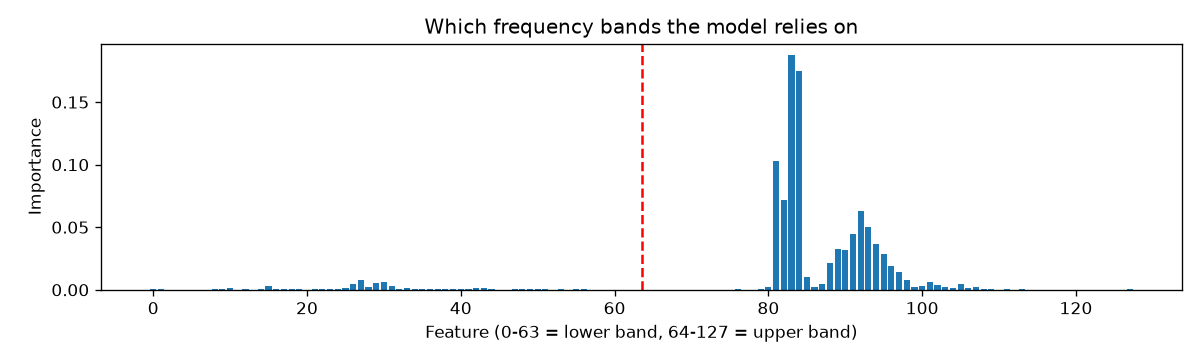
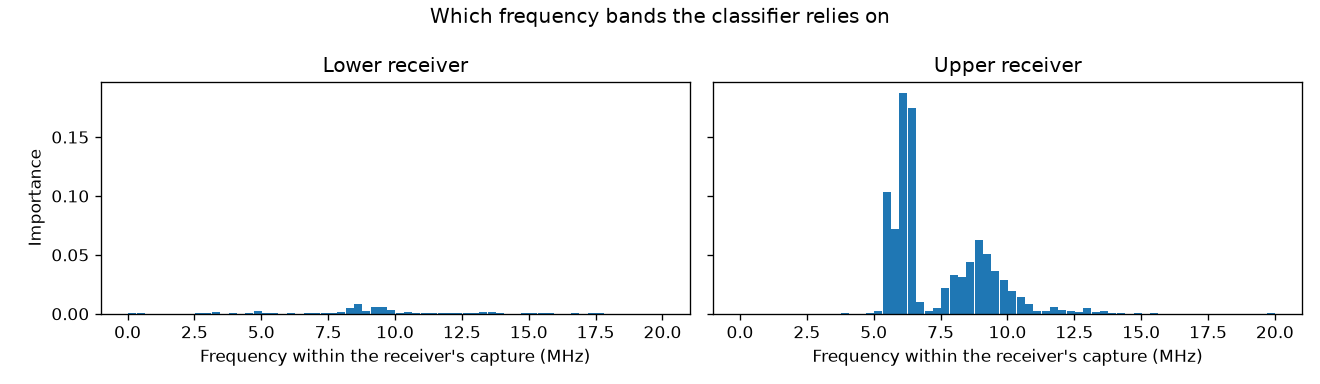
Add baseline, noise robustness test and frequency-labelled feature importance

Changed region(s): [[0.0, 0.0306, 0.9867, 0.9472]]

diff --git a/06_noise_robustness.py b/06_noise_robustness.py
@@ -1,0 +1,62 @@
+"""Step 6: where does the detector break? Accuracy on unseen recordings as noise is added.
+
+For each fold the Random Forest is trained on clean features. The test recordings
+are then reloaded, white Gaussian noise is added to every window, features are
+recomputed, and accuracy is measured. The noise level is set relative to each
+window's own power, so 0 dB means the added noise is as strong as the window itself.
+The recordings already contain some noise, so this is not the true SNR of the drone signal.
+"""
+import matplotlib.pyplot as plt
+import numpy as np
+from sklearn.ensemble import RandomForestClassifier
+from sklearn.metrics import accuracy_score
+from sklearn.model_selection import StratifiedGroupKFold
+from common import CHUNK, FIG_DIR, list_segments, load_signal
+from features_lib import band_features
+
+LEVELS_DB = [30, 20, 10, 5, 0, -5, -10]   # window power relative to added noise, in dB
+rng = np.random.default_rng(0)
+
+
+def add_noise(x, level_db):
+    """Add white Gaussian noise so that window power / noise power = level_db."""
+    noise_power = np.mean(x ** 2) / 10 ** (level_db / 10)
+    return x + rng.normal(0.0, np.sqrt(noise_power), size=x.shape)
+
+
+data = np.load("features.npz")
+X, y, groups = data["X"], data["y"], data["groups"]
+files = {seg_id: (low, high) for low, high, _, seg_id in list_segments()}
+
+cv = StratifiedGroupKFold(n_splits=4, shuffle=True, random_state=42)
+acc = {level: [] for level in LEVELS_DB}
+for fold, (train_idx, test_idx) in enumerate(cv.split(X, y, groups), start=1):
+    model = RandomForestClassifier(n_estimators=200, random_state=42).fit(X[train_idx], y[train_idx])
+    for seg_id in sorted(set(groups[test_idx])):
+        x_low, x_high = (load_signal(f) for f in files[seg_id])
+        label = y[groups == seg_id][0]
+        n_chunks = min(len(x_low), len(x_high)) // CHUNK
+        for level in LEVELS_DB:
+            feats = []
+            for i in range(n_chunks):
+                a, b = i * CHUNK, (i + 1) * CHUNK
+                feats.append(np.concatenate([band_features(add_noise(x_low[a:b], level)),
+                                             band_features(add_noise(x_high[a:b], level))]))
+            pred = model.predict(np.array(feats))
+            acc[level].append(accuracy_score(np.full(len(pred), label), pred))
+    print(f"Fold {fold} done")
+
+means = [np.mean(acc[level]) for level in LEVELS_DB]
+for level, m in zip(LEVELS_DB, means):
+    print(f"{level:>4} dB: accuracy {m:.3f}")
+
+plt.figure(figsize=(6, 4))
+plt.plot(LEVELS_DB, means, marker="o")
+plt.gca().invert_xaxis()
+plt.axhline(0.5, color="grey", linestyle="--", label="Chance level")
+plt.xlabel("Window power relative to added noise (dB)")
+plt.ylabel("Accuracy on unseen recordings")
+plt.title("Detection accuracy as noise increases")
+plt.legend(); plt.grid(alpha=0.3); plt.tight_layout()
+plt.savefig(FIG_DIR / "07_noise_robustness.png", dpi=120)
+print("Saved figures/07_noise_robustness.png")

diff --git a/03_train.py b/03_train.py
@@ -5,6 +5,7 @@ from sklearn.ensemble import RandomForestClassifier
 from sklearn.metrics import ConfusionMatrixDisplay, accuracy_score, confusion_matrix
 from sklearn.model_selection import StratifiedGroupKFold
 from common import FIG_DIR
+from features_lib import band_centres_mhz
 
 data = np.load("features.npz")
 X, y, groups = data["X"], data["y"], data["groups"]
@@ -27,10 +28,16 @@ plt.title("Confusion matrix (all folds)")
 plt.tight_layout(); plt.savefig(FIG_DIR / "05_confusion_matrix.png", dpi=120)
 
 model = RandomForestClassifier(n_estimators=200, random_state=42).fit(X, y)
-plt.figure(figsize=(10, 3))
-plt.bar(range(X.shape[1]), model.feature_importances_)
-plt.axvline(63.5, color="red", linestyle="--")
-plt.xlabel("Feature (0-63 = lower band, 64-127 = upper band)")
-plt.ylabel("Importance"); plt.title("Which frequency bands the model relies on")
-plt.tight_layout(); plt.savefig(FIG_DIR / "06_feature_importance.png", dpi=120)
+imp = model.feature_importances_
+freqs = band_centres_mhz()
+width = freqs[1] - freqs[0]
+
+fig, axes = plt.subplots(1, 2, figsize=(11, 3.2), sharey=True)
+for ax, part, name in zip(axes, (imp[:64], imp[64:]), ("Lower receiver", "Upper receiver")):
+    ax.bar(freqs, part, width=width * 0.9)
+    ax.set_title(name)
+    ax.set_xlabel("Frequency within the receiver's capture (MHz)")
+axes[0].set_ylabel("Importance")
+fig.suptitle("Which frequency bands the classifier relies on")
+fig.tight_layout(); fig.savefig(FIG_DIR / "06_feature_importance.png", dpi=120)
 print("Saved confusion matrix and feature importance figures.")

diff --git a/05_baseline.py b/05_baseline.py
@@ -1,0 +1,26 @@
+"""Step 5: how hard is this task really? Compare the Random Forest with a one-feature baseline.
+
+The baseline uses a single number per window, the average log power across the
+upper receiver's 64 bands, and a logistic regression on top. If this alone gets
+close to 100%, the dataset separates easily and the README should say so.
+"""
+import numpy as np
+from sklearn.linear_model import LogisticRegression
+from sklearn.metrics import accuracy_score
+from sklearn.model_selection import StratifiedGroupKFold
+
+data = np.load("features.npz")
+X, y, groups = data["X"], data["y"], data["groups"]
+
+# One feature per window: mean log power of the upper receiver (features 64-127)
+upper_power = X[:, 64:].mean(axis=1, keepdims=True)
+
+cv = StratifiedGroupKFold(n_splits=4, shuffle=True, random_state=42)
+scores = []
+for fold, (train_idx, test_idx) in enumerate(cv.split(X, y, groups), start=1):
+    model = LogisticRegression().fit(upper_power[train_idx], y[train_idx])
+    acc = accuracy_score(y[test_idx], model.predict(upper_power[test_idx]))
+    scores.append(acc)
+    print(f"Fold {fold}: baseline accuracy {acc:.3f}")
+
+print(f"\nOne-feature baseline, mean accuracy on unseen recordings: {np.mean(scores):.3f}")

diff --git a/features_lib.py b/features_lib.py
@@ -1,0 +1,19 @@
+"""The feature function, kept in one place so training and the noise test use identical code."""
+import numpy as np
+from scipy import signal
+from common import FS
+
+N_BANDS = 64   # squeeze each 513-point spectrum into 64 frequency bands
+
+
+def band_features(x):
+    """Log power in N_BANDS frequency bands for one short window."""
+    f, pxx = signal.welch(x, fs=FS, nperseg=1024)
+    bands = [chunk.mean() for chunk in np.array_split(pxx, N_BANDS)]
+    return np.log10(np.array(bands) + 1e-12)
+
+
+def band_centres_mhz():
+    """Centre frequency of each band in MHz, in the same order as band_features."""
+    f = np.fft.rfftfreq(1024, d=1 / FS)
+    return np.array([chunk.mean() for chunk in np.array_split(f, N_BANDS)]) / 1e6

diff --git a/02_features.py b/02_features.py
@@ -1,17 +1,7 @@
 """Step 2: turn raw signals into a table of numbers a model can learn from."""
 import numpy as np
-from scipy import signal
-from common import CHUNK, FS, list_segments, load_signal
-
-N_BANDS = 64   # squeeze each 513-point spectrum into 64 frequency bands
-
-
-def band_features(x):
-    """Log power in N_BANDS frequency bands for one short window."""
-    f, pxx = signal.welch(x, fs=FS, nperseg=1024)
-    bands = [chunk.mean() for chunk in np.array_split(pxx, N_BANDS)]
-    return np.log10(np.array(bands) + 1e-12)
-
+from common import CHUNK, list_segments, load_signal
+from features_lib import band_features
 
 rows, labels, groups = [], [], []
 for low_file, high_file, label, seg_id in list_segments():

diff --git a/README.md b/README.md
@@ -1,38 +1,67 @@
 # Drone RF Detection with DSP and Machine Learning
 
-Detecting whether a drone is present from raw 2.4 GHz RF captures, using spectral features and a Random Forest classifier.
+Detecting whether a drone is present from raw 2.4 GHz RF captures, using Welch spectral features and a Random Forest, evaluated only on recordings the model has never seen.
+
+![Spectrogram of a drone recording](figures/02_spectrogram.png)
+
+## Results at a glance
+
+| Test | Result |
+|---|---|
+| Random Forest, 128 band-power features, grouped 4-fold cross-validation | 100% accuracy on unseen recordings |
+| One-feature baseline (average power of the upper receiver) | 50% (chance level) |
+| Noise robustness | At least 94.7% down to 10 dB, then falls to chance at 5 dB (see below) |
+| C++ moving-average FIR filter vs NumPy | Identical output on 5,000 real samples |
 
 ## Data
-[DroneRF dataset](https://doi.org/10.17632/f4c2b4n755.1) (Al-Sa'd et al., 2019), recorded with two NI USRP-2943R receivers that cover the lower and upper halves of the 2.4 GHz band. I used 8 recordings in total, 4 of background RF activity with no drone and 4 of a Parrot Bebop drone in one flight mode (BUI 10000). The raw data is not included here because of its size.
+[DroneRF dataset](https://doi.org/10.17632/f4c2b4n755.1) (Al-Sa'd et al., 2019), recorded with two NI USRP-2943R receivers that cover the lower and upper halves of the 2.4 GHz band. I used 8 recordings, 4 of background RF activity with no drone and 4 of a Parrot Bebop drone in one flight mode (BUI 10000). The raw data is not included because of its size.
 
-## What I did
+## Method
 1. **Explored the raw signals** in the time domain, as spectrograms and as Welch power spectral densities.
 2. **Built the complex analytic (I/Q) form** of the real-valued captures with a Hilbert transform.
 3. **Extracted features** by cutting each recording into 1,000 windows of 0.25 ms and computing log power in 64 frequency bands per receiver, giving 8,000 windows with 128 features each.
-4. **Trained a Random Forest** and evaluated it with grouped cross-validation, so windows from the same recording never appear in both the training and the test data.
-5. **Implemented a moving-average FIR filter in C++** and checked it against NumPy on 5,000 real samples.
+4. **Trained a Random Forest** and evaluated it with grouped cross-validation, so windows from the same recording never appear in both training and test data.
+5. **Compared against a one-feature baseline** to measure how hard the task really is.
+6. **Tested robustness** by adding white Gaussian noise to the unseen recordings and measuring accuracy at each noise level.
+7. **Implemented a moving-average FIR filter in C++** and checked it against NumPy.
 
-## Results
-- Accuracy on recordings the model had never seen was 100% in all four folds.
-- The C++ filter matched NumPy exactly (maximum difference 0.0).
+## Which frequencies matter
+![Feature importance by frequency](figures/06_feature_importance.png)
 
-The perfect score needs context. The data was recorded in a lab, only one drone and one flight mode were used, and there were just 8 recordings. Detection in open air, with Wi-Fi and Bluetooth sharing the band, would be much harder.
+Almost all of the importance sits in the upper receiver. The strongest bands lie between about 5.5 and 6.5 MHz of its capture, with a second, weaker group between about 7.5 and 10.5 MHz, while the lower receiver contributes very little. Together with the baseline result, this shows the drone is recognised by where its energy sits in the spectrum, not by how much energy there is.
 
-![Spectrogram](figures/02_spectrogram.png)
-![PSD](figures/03_psd.png)
-![Confusion matrix](figures/05_confusion_matrix.png)
-![Feature importance](figures/06_feature_importance.png)
+## How much noise the detector tolerates
+![Accuracy as noise increases](figures/07_noise_robustness.png)
+
+Noise is added relative to each window's own power, so 0 dB means the added noise is as strong as the window itself. The recordings already contain receiver noise, so this axis is not the true SNR of the drone signal. Accuracy holds at 99% or more down to 20 dB and at 94.7% at 10 dB, then collapses to chance at 5 dB. The drop is sharp because the model was trained only on clean recordings, so once added noise lifts the noise floor across all bands, the band powers no longer look like anything it has seen. Training with noise-augmented windows would be the natural next step.
+
+## Limitations
+The perfect score needs context. The data was recorded in a lab, with one drone in one flight mode, and only 8 recordings. The overall power of a window does not separate the classes at all, since a one-feature baseline only reaches chance level. The difference lies in the shape of the spectrum, which the 128 band-power features capture, so the feature design is what makes detection possible here. Detection in open air, with Wi-Fi and Bluetooth sharing the band, would be much harder.
 
 ## What I learned
-Looking at the raw samples told me almost nothing, but the spectrogram and the power spectrum made the drone's activity easy to see. The feature importance plot showed the model relied almost entirely on the upper half of the band, and within it on two narrow groups of frequencies, while the lower half hardly mattered. I also learned why the test split matters. Neighbouring windows from one recording are nearly identical, so a random split would have let the model see near-copies of its test data, and grouping by recording was the only honest way to measure it. The exact match between C++ and NumPy happened because the samples are whole numbers, so none of the sums in the filter had to be rounded.
+Looking at the raw samples told me almost nothing, but the spectrogram and the power spectrum made the drone's activity easy to see. I also learned why the test split matters. Neighbouring windows from one recording are nearly identical, so a random split would have let the model see near-copies of its test data, and grouping by recording was the only honest way to measure it. The exact match between C++ and NumPy happened because the samples are whole numbers, so none of the sums in the filter had to be rounded.
 
 ## How to run
+Put the DroneRF .csv files in `data/raw/` first.
 ```
 pip install -r requirements.txt
 python 01_explore.py
 python 02_features.py
 python 03_train.py
+python 05_baseline.py
+python 06_noise_robustness.py
 g++ -O2 -static -o cpp/moving_average.exe cpp/moving_average.cpp
 python 04_check_cpp.py
 ```
-Put the DroneRF .csv files in `data/raw/` first.
+
+## Files
+| File | What it does |
+|---|---|
+| `common.py` | Paths, sampling rate, window length, file loading |
+| `features_lib.py` | The band-power feature function shared by all scripts |
+| `01_explore.py` | Time-domain, spectrogram, PSD and I/Q plots |
+| `02_features.py` | Builds the 8,000 x 128 feature table |
+| `03_train.py` | Grouped cross-validation, confusion matrix, feature importance |
+| `04_check_cpp.py` | Compares the C++ filter with NumPy |
+| `05_baseline.py` | One-feature baseline |
+| `06_noise_robustness.py` | Accuracy as noise is added |
